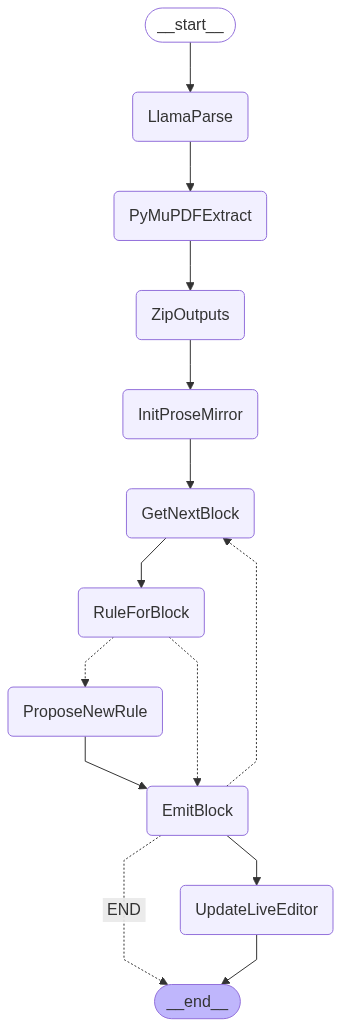
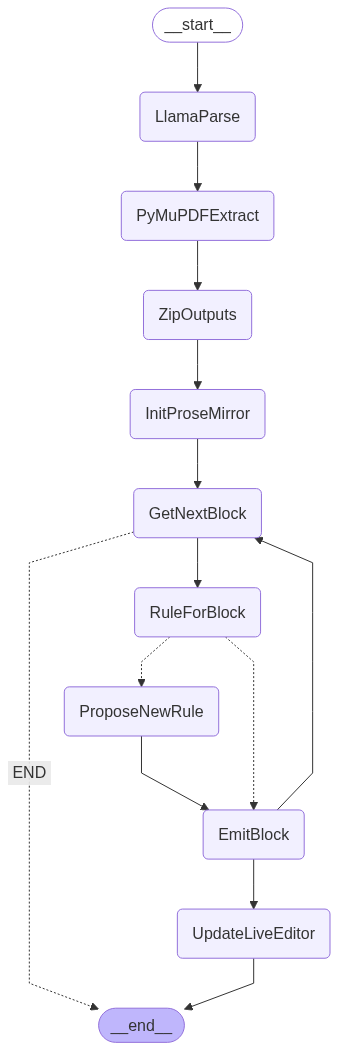
wip: zip all pages

diff --git a/pipeline.py b/pipeline.py
@@ -1,9 +1,10 @@
 import sys
+from typing import Optional
 
 from langchain_core.runnables import RunnableLambda
 from langgraph.checkpoint.memory import MemorySaver
 from langgraph.graph import END, StateGraph
-from pydantic import BaseModel
+from pydantic import BaseModel, computed_field
 
 from extract_structured_pdf import PyMuPDFOutput, extract
 from parse_with_llama_parse import LlamaParseOutput, parse
@@ -20,12 +21,33 @@ class PipelineState(BaseModel):
     llama_parse_output: LlamaParseOutput = None
     pymupdf_output: PyMuPDFOutput = None
 
-    zipped_page: ZippedOutputsPage = None
+    zipped_pages: list[ZippedOutputsPage] = None
 
     prose_mirror_doc: DocNode = None
 
-    block_index: int = 0
-    current_block: UnifiedBlock = None
+    block_index: Optional[int] = 0
+    page_index: Optional[int] = 0
+
+    @computed_field
+    @property
+    def current_block(self) -> Optional[UnifiedBlock]:
+        if self.page_index is None or self.block_index is None:
+            return None
+
+        if self.page_index >= len(self.zipped_pages):
+            return None
+
+        if self.block_index >= len(self.zipped_pages[self.page_index].unified_blocks):
+            return None
+
+        return self.zipped_pages[self.page_index].unified_blocks[self.block_index]
+
+    @current_block.setter
+    def current_block(self, new_current_block: UnifiedBlock) -> None:
+        # This will throw out of bounds if needed.
+        self.zipped_pages[self.page_index].unified_blocks[self.block_index] = (
+            new_current_block
+        )
 
 
 def is_node_completed(state: PipelineState, step: str) -> bool:
@@ -65,18 +87,21 @@ def zip_outputs(state: PipelineState):
     """
     Given both llama parse output and pymupdf output, zip them together.
     """
-    # Just for page 1 right now.
+    assert len(state.llama_parse_output.pages) == len(state.pymupdf_output.pages)
 
-    lp_page = state.llama_parse_output.pages[0]
-    pm_page = state.pymupdf_output.pages[0]
-    zipped_page = ZippedOutputsPage(
-        page=1,
-        llama_parse_page=lp_page,
-        pymupdf_page=pm_page,
-        unified_blocks=match_blocks(lp_page, pm_page),
-    )
+    pages = []
+    for i in range(len(state.llama_parse_output.pages)):
+        lp_page = state.llama_parse_output.pages[i]
+        pm_page = state.pymupdf_output.pages[i]
+        zipped_page = ZippedOutputsPage(
+            page=i,
+            llama_parse_page=lp_page,
+            pymupdf_page=pm_page,
+            unified_blocks=match_blocks(lp_page, pm_page),
+        )
+        pages.append(zipped_page)
 
-    return {"zipped_page": zipped_page}
+    return {"zipped_pages": pages}
 
 
 def init_prose_mirror_doc(state: PipelineState):
@@ -87,18 +112,16 @@ def get_next_block(state: PipelineState):
     """
     Get the next block to process. If no more blocks, return None to end the pipeline.
     """
-    # Initialize block index if not present
+    # Check if we have more blocks to process on our current page
+    if state.block_index < len(state.zipped_pages[state.page_index].unified_blocks):
+        return {"block_index": state.block_index + 1}
 
-    # Check if we have more blocks to process
-    if state.block_index >= len(state.zipped_page.unified_blocks):
-        # No more blocks, end the pipeline
-        return {}
+    # No more block on the page - got any more pages?
+    if state.page_index < len(state.zipped_pages):
+        return {"block_index": 0, "page_index": state.page_index + 1}
 
-    # Get the current block
-    current_block = state.zipped_page.unified_blocks[state.block_index]
-
-    # Return the current block and increment the index
-    return {"current_block": current_block, "block_index": state.block_index + 1}
+    # No more pages and no more blocks
+    return {"block_index": None, "page_index": None}
 
 
 def get_rule_for_block(state: PipelineState):
@@ -149,23 +172,20 @@ def should_emit_block(state: PipelineState) -> str:
 def should_continue_processing(state: PipelineState) -> bool:
     """
     Conditional edge function to determine if we should continue processing blocks.
-    Returns 'GetNextBlock' if there are more blocks, 'END' otherwise.
+    Returns 'RuleForBlock' if there is a block we should process, 'END' otherwise.
     """
     # Check if we have more blocks to process
-    if state.block_index < len(state.zipped_page.unified_blocks):
-        return "GetNextBlock"
+    if state.block_index is not None and state.page_index is not None:
+        return "RuleForBlock"
     else:
         return "END"
-
-
-def make_rule_for_block(state: PipelineState):
-    pass
 
 
 def emit_block(state: PipelineState):
     """
     Construct a node using the conversion rule and add it to the prose mirror document.
     """
+
     # Get the conversion rule by ID
     rule_class = ConversionRuleRegistry._rules.get(state.current_block.conversion_rule)
     if not rule_class:
@@ -225,6 +245,13 @@ def build_pipeline():
     builder.add_node("EmitBlock", emit_block)
 
     builder.add_edge("InitProseMirror", "GetNextBlock")
+
+    builder.add_conditional_edges(
+        "GetNextBlock",
+        should_continue_processing,
+        {"RuleForBlock": "RuleForBlock", "END": END},
+    )
+
     builder.add_edge("GetNextBlock", "RuleForBlock")
     builder.add_conditional_edges(
         "RuleForBlock",
@@ -233,11 +260,7 @@ def build_pipeline():
     )
     builder.add_edge("ProposeNewRule", "EmitBlock")
     builder.add_edge("EmitBlock", "UpdateLiveEditor")
-    builder.add_conditional_edges(
-        "EmitBlock",
-        should_continue_processing,
-        {"GetNextBlock": "GetNextBlock", "END": END},
-    )
+    builder.add_edge("EmitBlock", "GetNextBlock")
 
     return builder.compile()
 

diff --git a/rule_registry/llamaparse_text_to_paragraph.py b/rule_registry/llamaparse_text_to_paragraph.py
@@ -1,8 +1,8 @@
-from rule_registry import ConversionRule, RuleCondition
-from tiptap_models import ParagraphNode, TextNode
 from llama_cloud_services.parse.types import PageItem
 
 from extract_structured_pdf import Item
+from rule_registry import ConversionRule, RuleCondition
+from tiptap_models import ParagraphNode, TextNode
 
 
 class LlamaparseTextToParagraphConversion(ConversionRule):

diff --git a/parse_with_llama_parse.py b/parse_with_llama_parse.py
@@ -48,6 +48,11 @@ def save_images(parser, json_objs, image_dir):
     Download and save the image that were identified in this doc.
     """
     job_id = json_objs[0]["job_id"]
+    metadata = json_objs[0]["job_metadata"]
+
+    if metadata["job_is_cache_hit"]:
+        print("Cache hit - images already downloaded.")
+        return
 
     # Create image output directory
 

diff --git a/zip_llama_pymupdf.py b/zip_llama_pymupdf.py
@@ -35,6 +35,9 @@ def find_text_match(
     Find the first sequence of PyMuPDF text items that match the llama text.
     Returns the matching items and marks their indices as used.
     """
+    if not llama_text:
+        return []
+
     llama_text_norm = llama_text.lower().strip()
 
     # Try to find exact matches first

diff --git a/propose_new_rule.py b/propose_new_rule.py
@@ -1,9 +1,8 @@
-import json
-from pathlib import Path
-import subprocess
-import tempfile
 import importlib.util
+import json
+import subprocess
 import sys
+from pathlib import Path
 
 from langchain_core.output_parsers import PydanticOutputParser
 from langchain_core.prompts import ChatPromptTemplate

diff --git a/rule_registry/__init__.py b/rule_registry/__init__.py
@@ -3,7 +3,6 @@ Rules are how our structured PDF input gets translated to ProseMirror JSON.
 """
 
 import importlib
-import os
 from pathlib import Path
 from typing import Any, Literal, Optional
 
